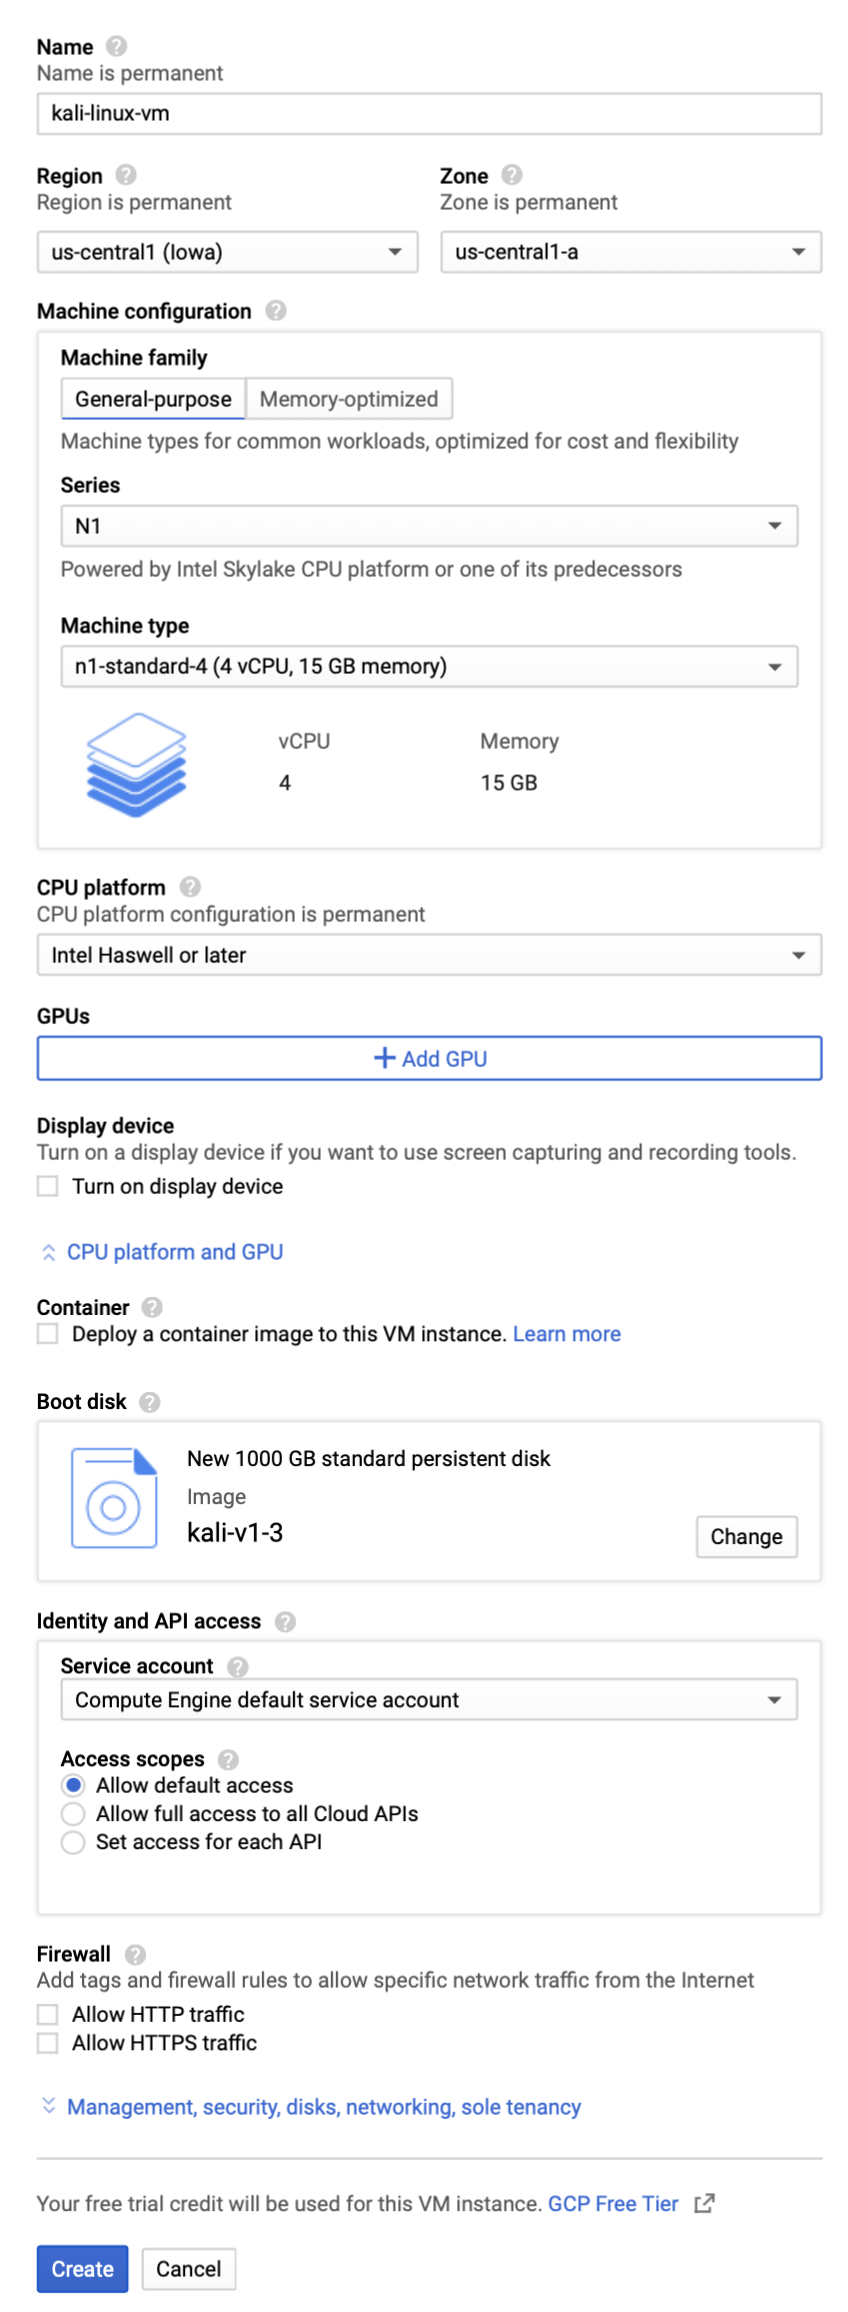
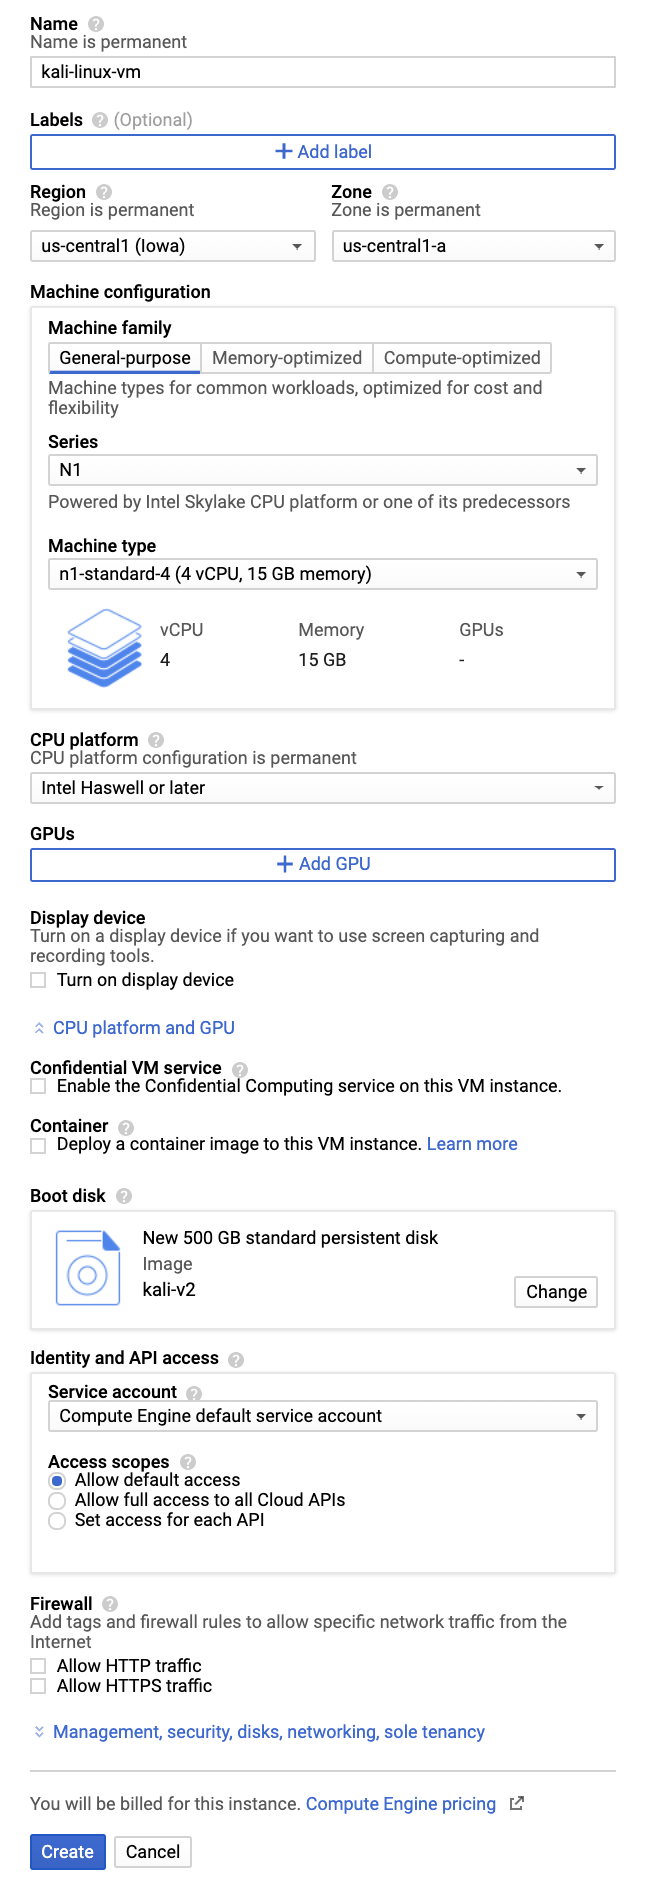
Updated GCP setup instructions

diff --git a/_tutorials/intro-to-gcp.md b/_tutorials/intro-to-gcp.md
@@ -49,9 +49,9 @@ To get access to the Kali virtual machine created for this class:
         * In the "Show images from" field, select, "infosec management"
         * Select the most recent Kali version that you see.
         * Leave "Boot disk type" "Standard persistent disk"
-        * Under the "Size (GB)" field, change the size to "1000". 
+        * Under the "Size (GB)" field, select the default size of "500". 
 
-            We won't use anywhere near that much, but on cloud computing, the more space that you allocate for your drive, _the better performance they give to read/write operations for your instance._ So beef up, storage space is cheap!
+            We won't use anywhere near that much, but on cloud computing, the more space that you allocate for your drive, _the better performance they give to read/write operations for your instance._
                 
         Your boot disk settings should look like this:
 
@@ -65,23 +65,15 @@ To get access to the Kali virtual machine created for this class:
 ![]( {{ '/assets/images/kali-custom-image2.png' | relative_url }} )
 
 * Click the "Create" button.
-* Wait a few minutes for your image to boot. Once it does, connect to it via `ssh`, using the `gcloud` method -- _not_ the default browser-based method. To do this, click the arrow to open a dropdown menu and select "View gcloud command":
+* Wait a few minutes for your image to boot. Once it does, connect to it via `ssh`:
 
-  ![]( {{ '/assets/images/gcloud-ssh.jpg' | relative_url }} )
+  ![]( {{ '/assets/images/gcloud-ssh-v2.png' | relative_url }} )
 
-* Click "Run in Cloud Shell". 
+* You should see a browser window pop up that looks like the following: 
 
-  ![]( {{ '/assets/images/gcp-ssh-run-in-cloud-shell.png' | relative_url }} )
+  ![]( {{ '/assets/images/gcp-ssh-connected.png' | relative_url }} )
 
-The `gcloud` command will paste an "ssh connect" command into a gcloud terminal -- <strong>you have to press "enter" to run that code and establish the ssh connection</strong>.
-  
-* When prompted for a passphrase, hit "enter" twice to leave the passphrase blank.
-  
-  If you are still in `gcloud`, and not `kali`, the prompt will be yellow. If you have a connection to Kali, the prompt will be red.
-  Look closely at the last image below -- it shows username@kali in red. That is important -- that means that a successful <code>ssh</code> connection to kali
-  has been made. You have to hit "enter".
-  
-   ![]( {{ '/assets/images/gcp-ssh-connected.jpg' | relative_url }} )
+    The "@kali" after your username shows that you are connected to your Kali VM workstation.
   
 # Part 4: Connect to your Kali Linux VM using Chrome Remote Desktop
 
@@ -107,7 +99,17 @@ The `gcloud` command will paste an "ssh connect" command into a gcloud terminal 
   ![]( {{ '/assets/images/Kali-remote.png' | relative_url }} )
 
 * Type in your six-digit pin, and check the box so that your browser remembers the pin.
-* You should see a screen like the following:
+
+* If a screen asks you to select a session type, click "OK" to accept the default.
+
+  ![]( {{ '/assets/images/default-session.png' | relative_url }} )
+  
+  * Next, if you are prompted to enter a password to create a "color managed device", type in the password `toor`, and click `authenticate`.
+  
+
+  ![]( {{ '/assets/images/color-management.png' | relative_url }} )
+
+* After you finish logging in, you should see a screen like the following:
 
   ![]( {{ '/assets/images/Kali-setup.png' | relative_url }} )
   
